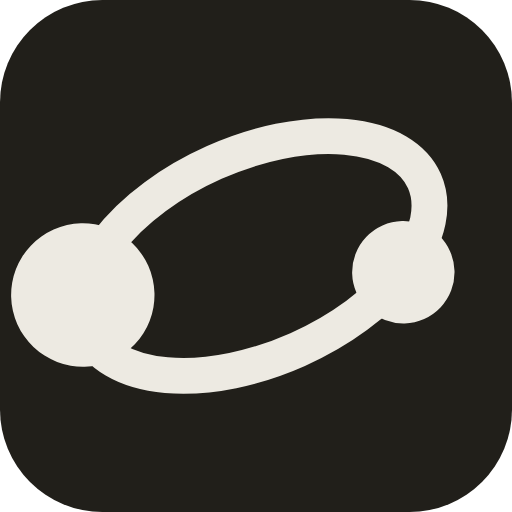
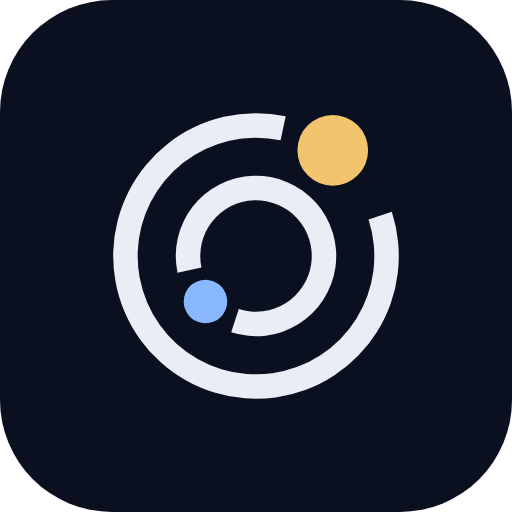
/ai-dörren: ikonen Två banor, cachebust ?v=2

diff --git a/index.html b/index.html
@@ -175,7 +175,7 @@ a{color:inherit;text-decoration:none}
 
   <a class="door" style="--accent:#35606F" href="https://buildapp.se/ai/">
     <div class="wrap door-row">
-      <span class="door-icon"><img src="./assets/ai-mark.png" alt="" width="72" height="72" loading="lazy"></span>
+      <span class="door-icon"><img src="./assets/ai-mark.png?v=2" alt="" width="72" height="72" loading="lazy"></span>
       <div class="door-body">
         <h2 class="door-title" data-sv="Lär dig Claude Code" data-en="Learn Claude Code">Lär dig Claude Code</h2>
         <span class="door-tag" data-sv="Kuraterad länklista, i rätt ordning." data-en="A curated list of resources, in the right order.">Kuraterad länklista, i rätt ordning.</span>

diff --git a/HANDOFF.md b/HANDOFF.md
@@ -4,14 +4,18 @@ status: active
 currentGoal: Hålla katalogsidan buildapp.se korrekt när projekten bakom dörrarna ändras
 nextAction: Kontrollera efter några dagar att Web Analytics i Cloudflare-dashboarden visar sidvisningar per sökväg (/sipdeck/, /grammat/ osv) och att beaconen inte blockeras av någon CSP-header som senare sätts i zonen
 blockers: []
-reviewedAt: 2026-10-27
+reviewedAt: 2026-10-30
 ---
 
 # Handoff: buildapp.se
 
+## 2026-10-30: /ai-dörren fick "Två banor"
+
+`ai` bytte ikon 2026-10-29, dörren låg kvar på solsystemet från 2026-10-27. `assets/ai-mark.png` omrenderad 512 px ur `ai/favicon.svg`, `?v=2` i `index.html` för att slå igenom cachen. **Öppet:** dörrens accent är kvar `#35606F` och dess text beskriver den gamla länklistan ("Kuraterad länklista"), inte solsystemssidan "Från idé till publicerad sida".
+
 ## 2026-10-27: ny ikon på /ai-dörren
 
-`assets/ai-mark.png` ersatt med den nya /ai-faviconen (solsystemet), renderad 512 px i ljust läge med Playwright, transparenta hörn som Tidslinjens. Skärmbild kontrollerad i 1280 px ljust och 390 px mörkt. **Öppet:** live-/ai visar ännu gamla `>_`-faviconen och dörrens accent är kvar `#35606F`; ses över när nya /ai publiceras.
+`assets/ai-mark.png` ersatt med /ai-faviconen (solsystemet), ersatt igen 2026-10-30.
 
 ## 2026-10-22: SEO-fynd från Käftsmäll, projekt under arbete sist
 

diff --git a/CONTEXT.md b/CONTEXT.md
@@ -16,10 +16,9 @@ produkt, den är huset, och varje undersida är en dörr.
   är apple-touch-icon, eftersom iOS inte stödjer SVG-favicons.
 - `assets/ai-mark.png` och `assets/valheim-mark.svg` är självhostade kopior (Valheims
   ikon finns bara som data-URI i dess HTML). `ai-mark.png` (512 px, transparenta
-  hörn) är sedan 2026-10-27 renderad i ljust läge ur den nya /ai-faviconen
-  (solsystemet, webbverkstad `runs/ai-solsystem/directions/a/favicon.svg`, viewBox
-  beskuren till rutan); live-/ai har fortfarande den gamla `>_`-ikonen tills den nya
-  sidan publiceras. Övriga appars ikoner refereras direkt via `buildapp.se`.
+  hörn) är en rendering av `favicon.svg` i repot `ai` ("Två banor"). Byter /ai ikon
+  måste den renderas om här, och `?v=` i `index.html` höjas: Cloudflare och webbläsare
+  cachar filen i 4 timmar. Övriga appars ikoner refereras direkt via `buildapp.se`.
 
 ## Constraints
 
